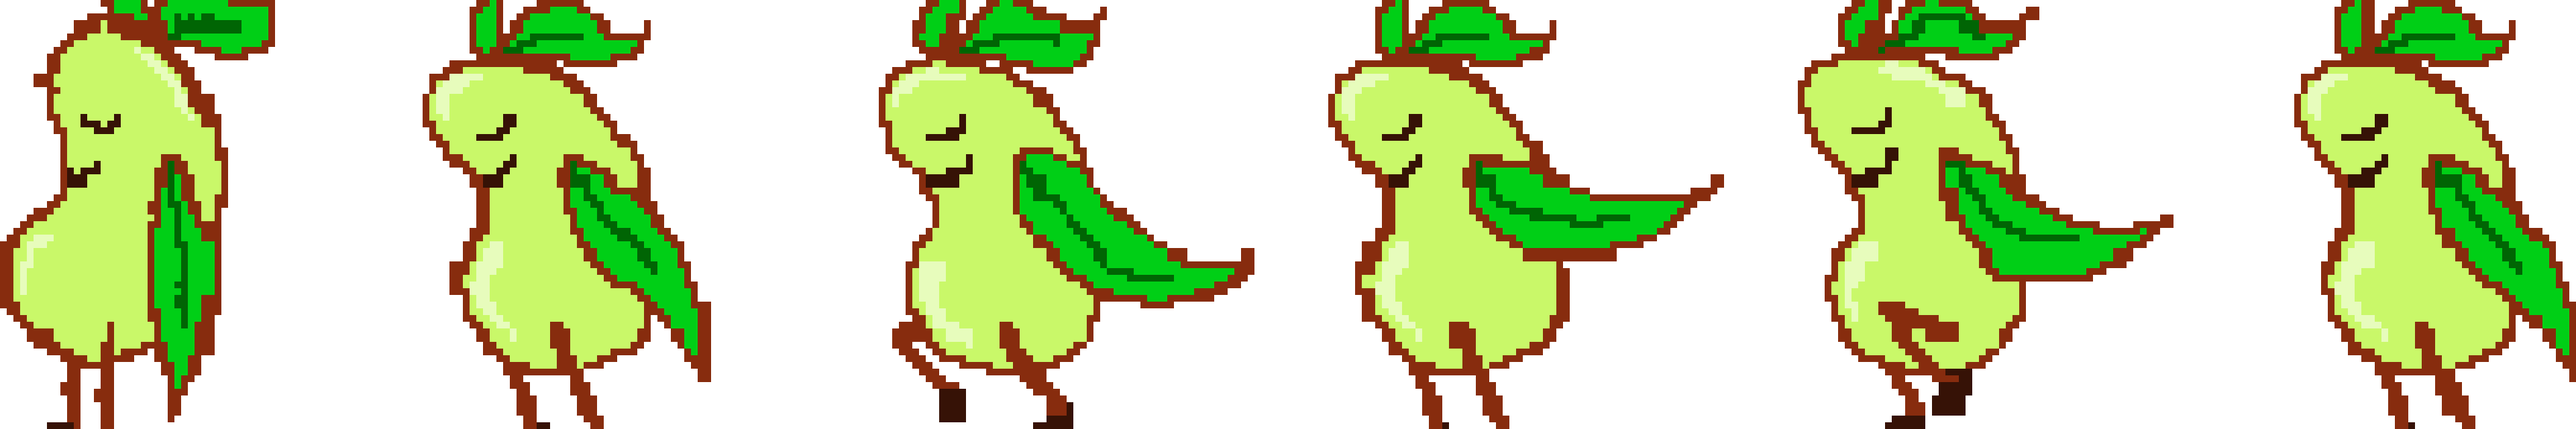
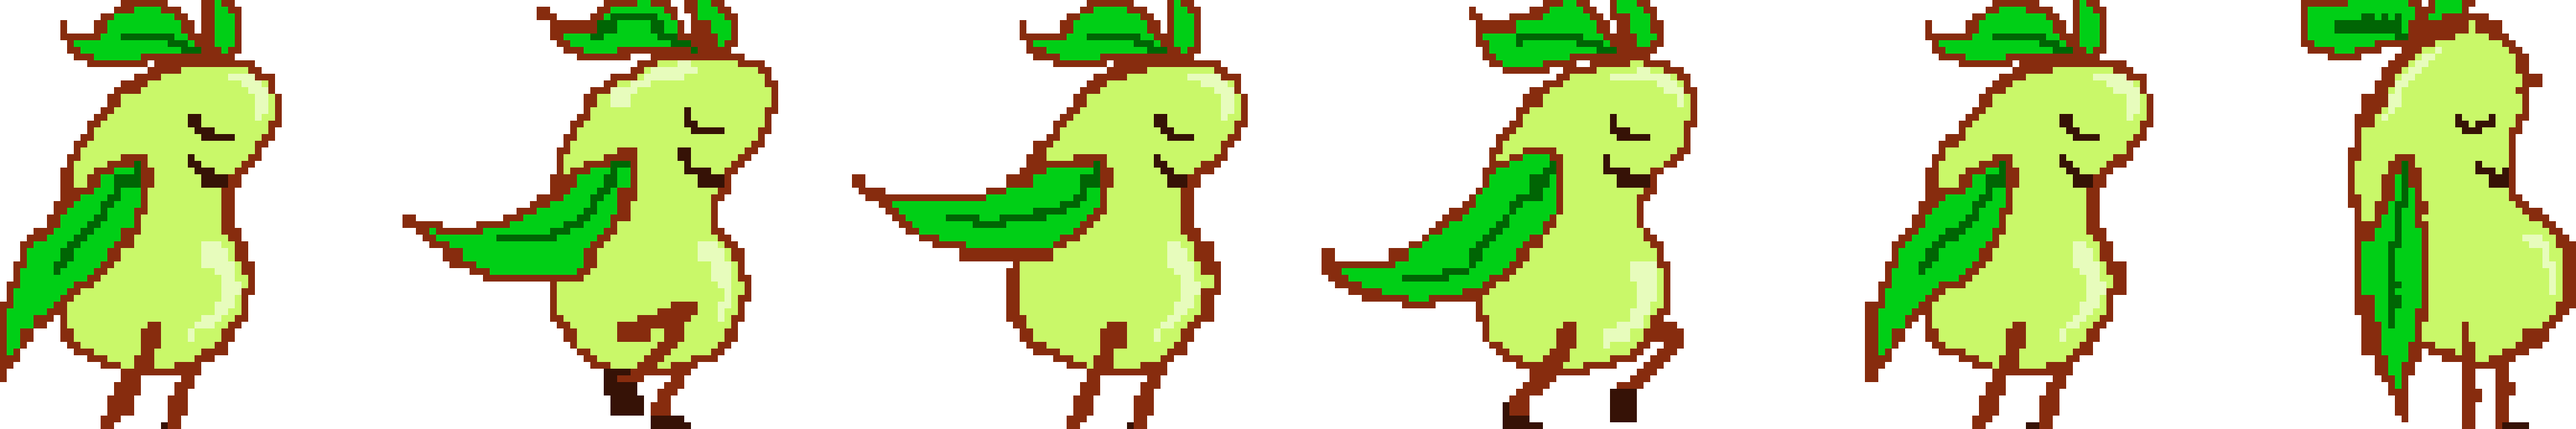
setup run, pot + jump anims

diff --git a/src/game/arena.js b/src/game/arena.js
@@ -43,12 +43,40 @@ export default class Arena extends Phaser.Scene {
 
     //Load up spritesheets
     this.load.spritesheet('hop', 'assets/JumpBean.png', {
-      frameWidth: 64,
-      frameHeight: 64
+      frameWidth: 640,
+      frameHeight: 640
     })
     this.load.spritesheet('left', 'assets/RunBeanLeft.png', {
       frameWidth: 640,
       frameHeight: 640
+    })
+    this.load.spritesheet('Leaf2Ball', 'assets/Leaf2Ball.png', {
+      frameWidth: 64,
+      frameHeight: 64
+    })
+    this.load.spritesheet('right', 'assets/RunBeanRight.png', {
+      frameWidth: 64,
+      frameHeight: 64
+    })
+    this.load.spritesheet('Bean2Pot', 'assets/Bean2Pot.png', {
+      frameWidth: 640,
+      frameHeight: 640
+    })
+    this.load.spritesheet('Ball2Pot', 'assets/Ball2Pot.png', {
+      frameWidth: 64,
+      frameHeight: 64
+    })
+    this.load.spritesheet('Bean2Leaf', 'assets/Bean2Leaf.png', {
+      frameWidth: 625,
+      frameHeight: 640
+    })
+    this.load.spritesheet('Bean2Ball', 'assets/Bean2Ball.png', {
+      frameWidth: 640,
+      frameHeight: 640
+    })
+    this.load.spritesheet('Pot2Leaf', 'assets/Pot2Leaf.png', {
+      frameWidth: 64,
+      frameHeight: 64
     })
 
   }
@@ -107,7 +135,7 @@ export default class Arena extends Phaser.Scene {
       player.fighter = new Fighter(this, x, y)
       this.add.existing(player.fighter)
       this.physics.add.existing(player.fighter, false)
-      this.physics.add.collider(middleLayer, player.fighter)
+      this.physics.add.collider(middleLayer, player.fighter, () => this.audio.play('keys'))
       player.fighter.score = 0
       player.index = i
       playerGroup.add(player.fighter)
@@ -132,9 +160,6 @@ export default class Arena extends Phaser.Scene {
       player.fighter.glow.color.g = g
       player.fighter.glow.color.b = b
       console.log(player.fighter.glow)
-
-      // setup animations for player sprite
-      
     })
     
     // Define keys (player, action, key, append)
@@ -271,9 +296,45 @@ export default class Arena extends Phaser.Scene {
     // setup sprite animations
     this.anims.create({
       key: 'left',
-      frames: this.anims.generateFrameNumbers('left', { start: 0, end: 6 }),
+      frames: this.anims.generateFrameNumbers('left', { start: 0, end: 5 }),
       frameRate: 12,
       repeat: -1
+    })
+    this.anims.create({
+      key: 'hop',
+      frames: this.anims.generateFrameNumbers('hop'),
+      frameRate: 15,
+      repeat: 0,
+    })
+    this.anims.create({
+      key: 'Bean2Leaf',
+      frames: this.anims.generateFrameNumbers('Bean2Leaf'),
+      frameRate: 60,
+      repeat: 0,
+    })
+    this.anims.create({
+      key: 'Bean2Leaf2',
+      frames: this.anims.generateFrameNumbers('Bean2Leaf'),
+      frameRate: 30,
+      repeat: 0,
+    })
+    this.anims.create({
+      key: 'Bean2Pot',
+      frames: this.anims.generateFrameNumbers('Bean2Pot'),
+      frameRate: 30,
+      repeat: 0,
+    })
+    this.anims.create({
+      key: 'Bean2Pot2',
+      frames: this.anims.generateFrameNumbers('Bean2Pot'),
+      frameRate: 30,
+      repeat: 0,
+    })
+    this.anims.create({
+      key: 'Bean2Ball',
+      frames: this.anims.generateFrameNumbers('Bean2Ball'),
+      frameRate: 30,
+      repeat: 0,
     })
   }
 
@@ -281,9 +342,67 @@ export default class Arena extends Phaser.Scene {
     // Loop through player inputs
 
     this.players.forEach((player, i) => {
-      let { fighter } = player
-      fighter.update(player)
+      let { fighter, buttons, direction } = player
+      let { UP, DOWN, LEFT, RIGHT } = direction
+      let dx = Number(RIGHT) - Number(LEFT)
+      let dy = Number(DOWN) - Number(UP)
+      let angle = Math.atan2(dy, dx)
+
       this.scoreTexts[i].setText(player.fighter.score)
+      fighter.body.setSize(640, 640)
+      fighter.update(player)
+
+      //control handling for animations
+      if (buttons.B0) {
+        fighter.anims.play('hop')
+      } else if (buttons.B5) {
+        fighter.setRotation(angle)
+        fighter.anims.play('Bean2Leaf')
+        fighter.on('animationcomplete-' + 'Bean2Leaf', () => {
+          setTimeout(() => {
+            fighter.anims.playReverse('Bean2Leaf2')
+          }, 500)
+        })
+      } else if (buttons.B4 > 0) {
+        if(fighter.anims.getName() !== 'Bean2Pot') {
+          fighter.anims.play('Bean2Pot')
+        }
+      } else if (buttons.B2) {
+        if(fighter.anims.getName() !== 'Bean2Ball') {
+          fighter.anims.play('Bean2Ball')
+        }
+      } else if (buttons.B0) {
+        fighter.anims.play('hop')
+      } else if (buttons.B0) {
+        fighter.anims.play('hop')
+      } else {
+        let anim = fighter.anims.getName()
+        switch (anim) {
+          case 'Bean2Pot':
+            fighter.anims.playReverse('Bean2Pot2', 30, false)
+            break
+          case 'Bean2Leaf2':
+            fighter.setRotation(0)
+            break
+          case 'left':
+            if (fighter.body.velocity.x > 50 || fighter.body.velocity.x < -50) {
+              console.log('want play')
+              fighter.anims.chain('left', 24, false)
+            } else {
+              fighter.anims.stop('left')
+            }
+            break
+          case '':
+            if (fighter.body.velocity.x > 50 || fighter.body.velocity.x < -50) {
+              fighter.anims.play('left', 24, false)
+              console.log('play')
+            }
+            break
+          default:
+            return
+        }
+        fighter.update(player)
+      }
     })
   }
 }

diff --git a/src/game/Fighter.js b/src/game/Fighter.js
@@ -45,7 +45,6 @@ export default class Fighter extends Phaser.GameObjects.Sprite {
     this.setPosition(x, y)
 
     this.controlScheme = controlScheme
-    this.mass = 50
   }
 
   update(input) {
@@ -68,9 +67,7 @@ export default class Fighter extends Phaser.GameObjects.Sprite {
     let { HOP, BALL, BLOCK, DASH } = this.controlScheme
     
     if (buttons[HOP]) {
-      console.log(LEFT)
       if (this.state === Stances.IDLE) {
-        this.anims.stop()
         Hop(this, dx * HOP_SPEED, dy * HOP_SPEED)
         this.state = 'JUMPED'
       }
@@ -91,10 +88,6 @@ export default class Fighter extends Phaser.GameObjects.Sprite {
           return
         }, 500)
       } else {
-        if (this.state === Stances.IDLE && LEFT > 0) {
-          console.log('lefting')
-          this.anims.play('left')
-        }
         Idle(this, dx * DEFAULT_SPEED)
       }
     }
@@ -105,6 +98,7 @@ export default class Fighter extends Phaser.GameObjects.Sprite {
     // this.setRotation(angle)
     // When you get to the arena edge,
     // wrap back around.
+    if (this.state !== Stances.DASH) this.setFlipX(LEFT > 0)
     this.y = modulo(this.y, ARENA_HEIGHT)
     this.x = modulo(this.x, ARENA_WIDTH)
     
@@ -112,13 +106,12 @@ export default class Fighter extends Phaser.GameObjects.Sprite {
     this.glow.setPosition(this.x, this.y)
   }
 
-
   setStance(stanceName) {
     if (!Object.values(Stances).includes(stanceName)) {
       throw new Error(`Stance ${stanceName} must be a defined stance.`)
     }
     this.state = stanceName
-    this.setTexture(stanceName)
+    // this.setTexture(stanceName)
   }
 
   // updateHitbox updates the fighter's

diff --git a/src/game/main.js b/src/game/main.js
@@ -13,7 +13,7 @@ const config = {
     default: "arcade",
     arcade: {
       gravity: { y: 1000 },
-      debug: true,
+      debug: false,
     },
   },
   scene: [
